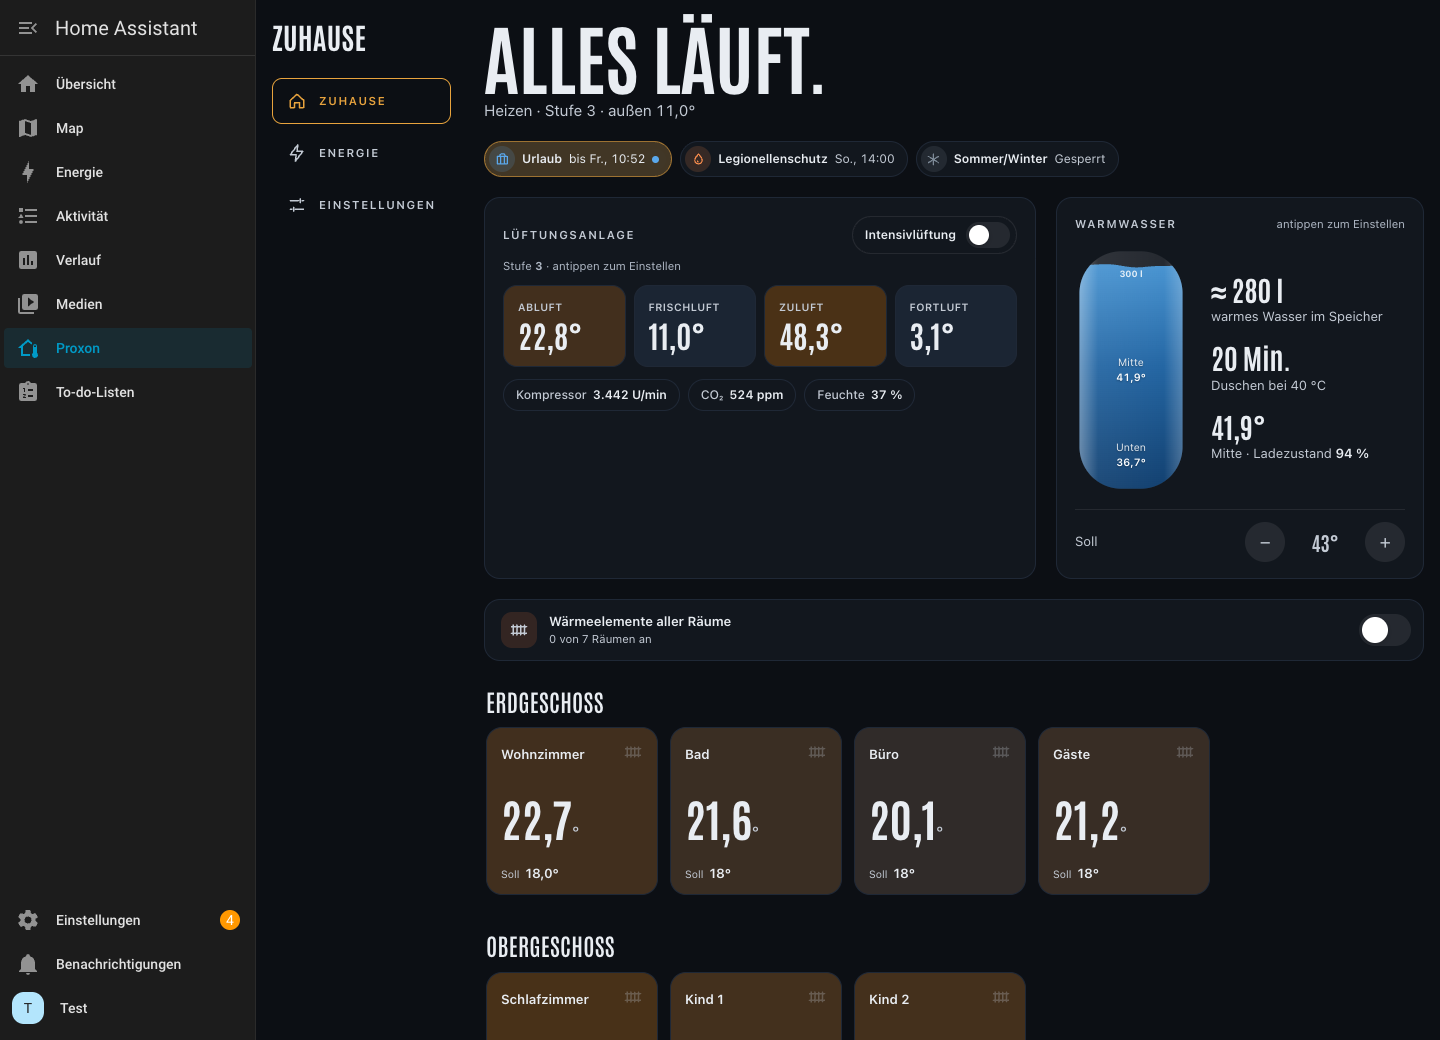
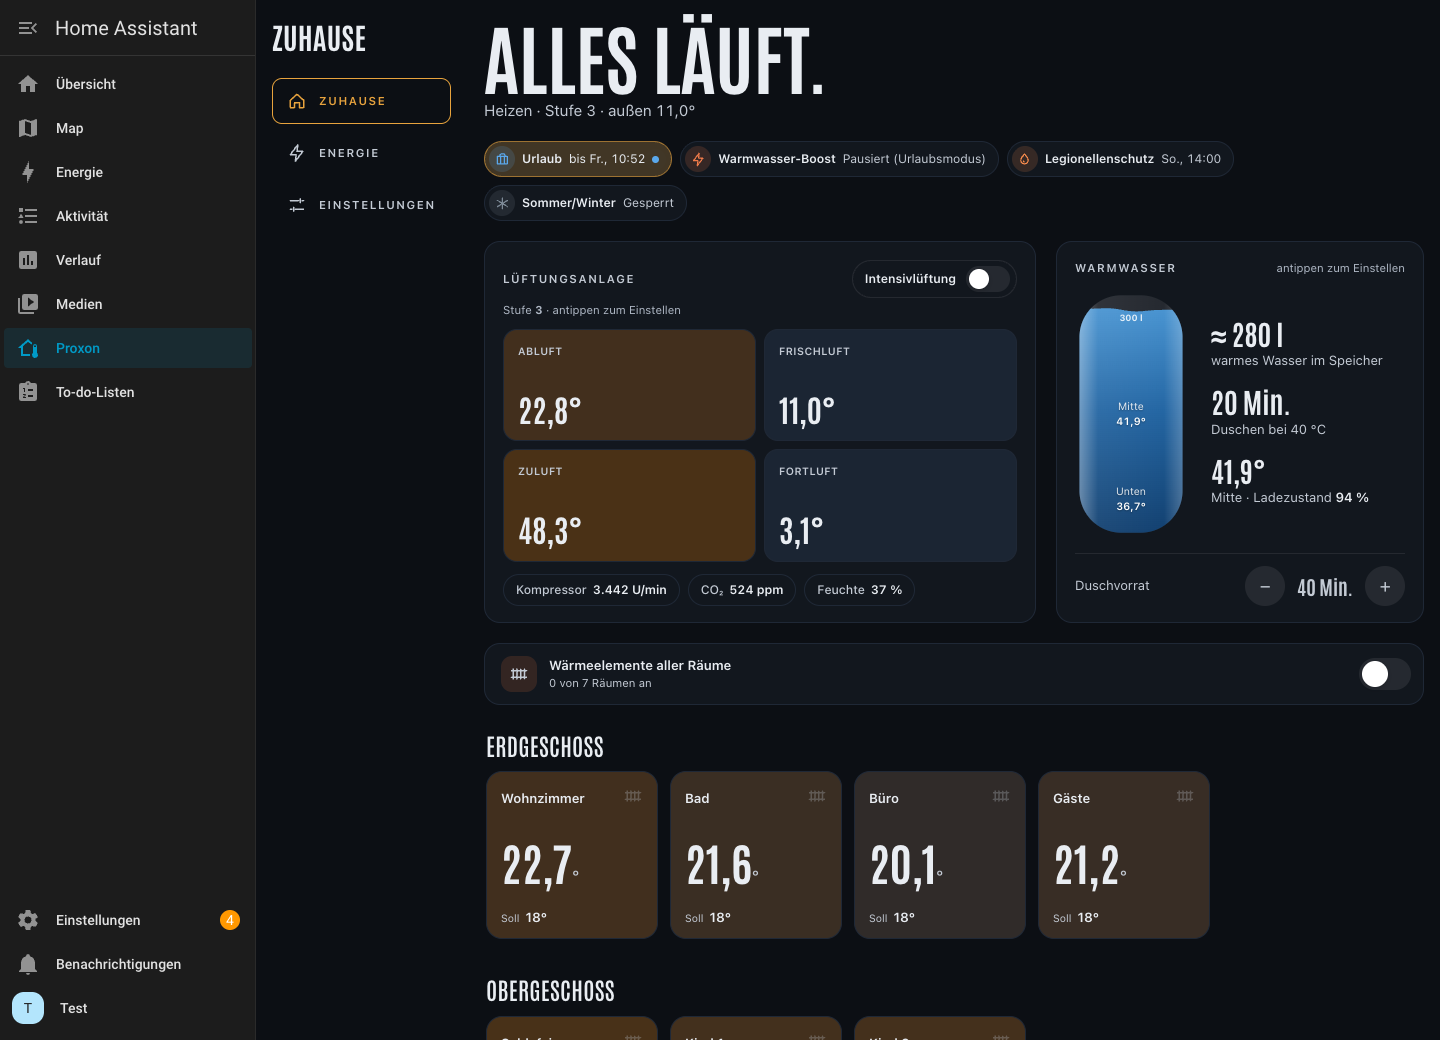
Tile wall fills the unit card; room targets without ",0"; CSV with the period before; larger picture on phones; clock notice
The clock notice names only the control panel: the Proxon app can't set the
clock either (forum feedback), and the official register list allows writing it
only with service access.

diff --git a/custom_components/proxon_control/frontend/proxon-panel.js b/custom_components/proxon_control/frontend/proxon-panel.js
@@ -30,7 +30,7 @@ const TEXT = {
     holidayOrder: "Die Rückkehr liegt vor der Abreise. Bitte die Daten prüfen.", home: "Zuhause", energy: "Energie", settings: "Einstellungen", status: "Status",
     e: { usage: "Verbrauch", today: "Heute", week: "Diese Woche", runtime: "Laufzeit heute", per: { week: "Woche", month: "Monat", year: "Jahr" },
       earlier: "Früher", later: "Später", cmp: "Mit dem Zeitraum davor vergleichen", vs: "{v} gegenüber {p}", prevName: { week: "Vorwoche", month: "Vormonat", year: "Vorjahr" },
-      table: "Werte als Tabelle", tSum: "Summe", tAvgDay: "Ø Tag", tAvgMonth: "Ø Monat", tMin: "Min.", tMax: "Max.", tTotal: "Gesamt", csv: "Als CSV herunterladen", csvDate: "Datum", csvMonth: "Monat", csvTotal: "Summe", failed: "Die Statistik von Home Assistant ist gerade nicht erreichbar. Gleich noch einmal versuchen.", cost: "Kosten", running: "Bisher", expected: "Voraussichtlich", fc: "{p} (Hochrechnung)",
+      table: "Werte als Tabelle", tSum: "Summe", tAvgDay: "Ø Tag", tAvgMonth: "Ø Monat", tMin: "Min.", tMax: "Max.", tTotal: "Gesamt", csv: "Als CSV herunterladen", csvDate: "Datum", csvMonth: "Monat", csvTotal: "Summe", csvPrev: { week: "Vorwoche", month: "Vormonat", year: "Vorjahr" }, failed: "Die Statistik von Home Assistant ist gerade nicht erreichbar. Gleich noch einmal versuchen.", cost: "Kosten", running: "Bisher", expected: "Voraussichtlich", fc: "{p} (Hochrechnung)",
       avgMonth: "Im Schnitt pro Monat", ofWater: "davon Warmwasser {v}",
       noPrice: "Für die Kosten unter Einstellungen → Geräte & Dienste → Proxon Control → Konfigurieren einen Strompreis eintragen (fest oder als Sensor).", none: "Für diesen Zeitraum gibt es noch keine Werte. Home Assistant speichert sie erst, seit es die Energie-Zähler gibt.", yesterday: "gestern {v}", forecast: "Hochrechnung {v}",
       comp: "Kompressor", vent: "Lüftung & Elektronik", water: "Warmwasser (geschätzt)", pump: "Warmwasser-Wärmepumpe", heater: "Heizstab",
@@ -102,7 +102,7 @@ const TEXT = {
     holidayOrder: "The return is before the departure. Please check the dates.", home: "Home", energy: "Energy", settings: "Settings", status: "Status",
     e: { usage: "Consumption", today: "Today", week: "This week", runtime: "Running time today", per: { week: "Week", month: "Month", year: "Year" },
       earlier: "Earlier", later: "Later", cmp: "Compare with the period before", vs: "{v} compared with {p}", prevName: { week: "the week before", month: "the month before", year: "the year before" },
-      table: "Values as a table", tSum: "Total", tAvgDay: "Ø day", tAvgMonth: "Ø month", tMin: "Min", tMax: "Max", tTotal: "Total", csv: "Download as CSV", csvDate: "Date", csvMonth: "Month", csvTotal: "Total", failed: "Home Assistant's statistics can't be reached right now. Try again in a moment.", cost: "Cost", running: "So far", expected: "Expected", fc: "{p} (forecast)",
+      table: "Values as a table", tSum: "Total", tAvgDay: "Ø day", tAvgMonth: "Ø month", tMin: "Min", tMax: "Max", tTotal: "Total", csv: "Download as CSV", csvDate: "Date", csvMonth: "Month", csvTotal: "Total", csvPrev: { week: "Week before", month: "Month before", year: "Year before" }, failed: "Home Assistant's statistics can't be reached right now. Try again in a moment.", cost: "Cost", running: "So far", expected: "Expected", fc: "{p} (forecast)",
       avgMonth: "On average per month", ofWater: "of which hot water {v}",
       noPrice: "For the cost, enter an electricity price under Settings → Devices & services → Proxon Control → Configure (fixed or as a sensor).", none: "There are no values for this period yet. Home Assistant keeps them only since the energy counters exist.", yesterday: "yesterday {v}", forecast: "Forecast {v}",
       comp: "Compressor", vent: "Ventilation & electronics", water: "Hot water (estimated)", pump: "Hot-water heat pump", heater: "Immersion heater",
@@ -380,6 +380,7 @@ button { font: inherit; color: inherit; }
   .toast { bottom: calc(92px + env(safe-area-inset-bottom, 0px)) !important; }
   /* the unit's picture shrinks with the screen: its small labels go, the four air temperatures stand large below it */
   svg.diagram .t-val, svg.diagram .t-name, svg.diagram .t-small, svg.diagram .zone { display: none; }
+  svg.diagram { width: calc(100% + 16px); margin: 2px -8px 0; }
   :host .unit-temps { display: grid; }
 }
 .unit-temps { display: none; grid-template-columns: repeat(2, minmax(0, 1fr)); gap: 8px; margin-top: 10px; }
@@ -679,6 +680,12 @@ svg.diagram { display: block; width: 100%; max-width: 760px; margin: 6px auto 0;
 @media (max-width: 600px) { :host([tiles]) .unit-temps { grid-template-columns: repeat(2, minmax(0, 1fr)); } }
 :host([tiles]) .unit-temps div { background: var(--rt, var(--line)); border: 1px solid var(--tile-line); padding: 14px; }
 :host([tiles]) .unit-temps b { font-size: 2.2rem; font-weight: 700; }
+@media (min-width: 601px) {
+  :host([tiles]) .top > .card:first-child, :host([tiles]) .unit-tap { display: flex; flex-direction: column; }
+  :host([tiles]) .unit-tap { flex: 1; }
+  :host([tiles]) .unit-temps { flex: 1; grid-template-columns: repeat(2, minmax(0, 1fr)); grid-auto-rows: minmax(96px, 1fr); }
+  :host([tiles]) .unit-temps div { display: flex; flex-direction: column; justify-content: space-between; }
+}
 /* rooms: a row to swipe through, each tile in its own temperature; the tapped one grows and shows - and + */
 :host([tiles]) .rooms { display: flex; gap: 12px; overflow-x: auto; scroll-snap-type: x proximity; padding: 2px 2px 10px; scrollbar-width: thin; }
 :host([tiles]) .rooms > .room { flex: 0 0 172px; scroll-snap-align: start; background: var(--rt, var(--surface)) !important; min-height: 168px;
@@ -888,6 +895,11 @@ class ProxonPanel extends HTMLElement {
     this._buildSheet();
     this._buildToast();
     this._buildAir();
+    // on a phone the picture shows only the drawing (its side labels are hidden there): about a fifth larger
+    const diagram = this.shadowRoot.querySelector("svg.diagram"), narrow = matchMedia("(max-width: 600px)");
+    const crop = () => diagram.setAttribute("viewBox", narrow.matches ? "48 28 624 304" : "0 0 720 360");
+    if (this._cropOff) this._cropOff();
+    crop(); narrow.addEventListener("change", crop); this._cropOff = () => narrow.removeEventListener("change", crop);
     this._startAir();
     let tab = "home"; try { tab = sessionStorage.getItem("proxon-tab") || "home"; } catch (_) { /* no storage */ }
     if (tab === "settings" || tab === "energy") this._tab(tab, true);
@@ -1184,7 +1196,7 @@ class ProxonPanel extends HTMLElement {
         <span class="rs-v"><small>${t.target}</small><b class="num tv"></b></span><button class="rs-btn" data-d="1" aria-label="${t.warmer}">+</button></div>`;
     const $ = s => el.querySelector(s), [dn, up] = el.querySelectorAll(".rs-btn");
     let r = null;
-    const digits = () => (r && r.step < 1 ? 1 : 0);
+    const digits = () => (r && r.step < 1 && !Number.isInteger(r.target) ? 1 : 0);  // 18°, but 18,5°
     const ring = x => (x.element === "heating" ? "var(--warm)" : x.temp - x.target < -1 ? "var(--cold)" : "transparent");
     const render = () => {
       r = this._room(n); if (!r) return;
@@ -1340,8 +1352,10 @@ class ProxonPanel extends HTMLElement {
     const e = this.t.e, de = (this._hass.language || "").startsWith("de"), sep = de ? ";" : ",";
     const num = v => (Math.round(v * 1000) / 1000).toFixed(3).replace(".", de ? "," : ".");
     const day = d => d.toISOString().slice(0, L.P.gran === "month" ? 7 : 10);
-    const head = [L.P.gran === "month" ? e.csvMonth : e.csvDate, ...L.parts.map(p => `${e[p.k]} (kWh)`), `${e.csvTotal} (kWh)`];
-    const rows = L.cols.filter(c => !c.future).map(c => [day(c.d), ...c.values.map(num), num(c.total)]);
+    const head = [L.P.gran === "month" ? e.csvMonth : e.csvDate, ...L.parts.map(p => `${e[p.k]} (kWh)`), `${e.csvTotal} (kWh)`,
+      ...(L.prev ? [`${e.csvPrev[L.P.per]} (kWh)`] : [])];
+    const rows = L.cols.map((c, i) => [c, i]).filter(([c]) => !c.future)
+      .map(([c, i]) => [day(c.d), ...c.values.map(num), num(c.total), ...(L.prev ? [i < L.prev.length ? num(L.prev[i]) : ""] : [])]);
     const text = [head, ...rows].map(r => r.map(v => (String(v).includes(sep) || /["\n]/.test(v) ? `"${String(v).replace(/"/g, '""')}"` : v)).join(sep)).join("\r\n") + "\r\n";
     const url = URL.createObjectURL(new Blob(["\ufeff" + text], { type: "text/csv;charset=utf-8" }));
     const a = document.createElement("a");
@@ -1515,7 +1529,7 @@ class ProxonPanel extends HTMLElement {
       pv(sel) !== null ? ` · ${e.prevName[P.per]} ${this._kwh(pv(sel))}` : ""}` : "";
     this.$("e-key").innerHTML = empty ? "" : this._eKey(parts, totals);
     this._eTable(P, parts, cols, totals, empty || failed);
-    this._eLast = { P, parts, cols, empty }; this.$("e-csv").disabled = empty || failed;
+    this._eLast = { P, parts, cols, empty, prev }; this.$("e-csv").disabled = empty || failed;
     this._updateCosts(parts);
     // now
     const power = parts.map(p => this._eSum(p.power));
@@ -1961,7 +1975,7 @@ class ProxonPanel extends HTMLElement {
     }, () => {
       const cur = this._room(n); if (!cur) return;
       this.$("r-sub").textContent = `${t.now} ${this.fmt(cur.temp)}° · ${t.element[cur.element] || ""}`;
-      this.$("rt-out").textContent = `${this.fmt(cur.target, d)} °C`;
+      this.$("rt-out").textContent = `${this.fmt(cur.target, Number.isInteger(cur.target) ? 0 : d)} °C`;
       this.$("rt-dn").disabled = !cur.available || cur.target <= cur.min; this.$("rt-up").disabled = !cur.available || cur.target >= cur.max;
       this.$("s-elem").setAttribute("aria-checked", cur.mode === "heat");
     });

diff --git a/tests/panel_page.py b/tests/panel_page.py
@@ -191,6 +191,13 @@ def check(page, data: dict) -> dict:
     r["energy_cmp"] = js(f"""() => ({{ pressed: {root}.getElementById('e-cmp').getAttribute('aria-pressed'), sub: {root}.getElementById('e-sub').textContent,
       marks: {root}.querySelectorAll('.e-pm').length, head: [...{root}.querySelectorAll('.e-tbl th')].map(x => x.textContent),
       total: [...{root}.querySelectorAll('.e-tbl tr.sum td')].map(x => [...x.childNodes].map(n => n.textContent).join(' ').trim()) }})""")
+    r["energy_csv_cmp"] = js(f"""async () => {{
+      let blob = null; const make = URL.createObjectURL, click = HTMLAnchorElement.prototype.click;
+      URL.createObjectURL = b => {{ blob = b; return 'blob:test'; }}; HTMLAnchorElement.prototype.click = function () {{}};
+      {root}.getElementById('e-csv').click();
+      URL.createObjectURL = make; HTMLAnchorElement.prototype.click = click;
+      return blob ? (await blob.text()).split('\\r\\n').slice(0, 3) : null;
+    }}""")
     js(f"() => {{ {root}.getElementById('e-cmp').click(); }}")
     page.wait_for_timeout(200)
     r["energy_cmp_off"] = js(f"() => [{root}.querySelectorAll('.e-pm').length, {root}.getElementById('e-sub').textContent.includes('Vorwoche')]")
@@ -271,6 +278,10 @@ def check(page, data: dict) -> dict:
               .slice(0, 5).map(e => `${{e.tagName}}.${{e.className}}#${{e.id}}`),  // what sticks out, for the message
           }};
         }}""")
+    # a room's target: a decimal only where there is one; the unit's picture cropped to the drawing on a phone
+    r["targets"] = js(f"() => [...{root}.querySelectorAll('.rooms .tv')].map(x => x.textContent)")
+    r["diagram_box"] = js(f"() => {root}.querySelector('svg.diagram').getAttribute('viewBox')")
+
     # the hot water as a shower supply (switch in the automations): the card's label, value and − / + follow it
     E = data["config"]["entities"]
     if E.get("DuschvorratModus"):

diff --git a/tests/test_panel_page.py b/tests/test_panel_page.py
@@ -91,6 +91,10 @@ async def test_page_in_a_browser(hass: HomeAssistant, device, tmp_path: Path) ->
         soft = r["soft"]
         assert soft["on"] and soft["backdrop"] == "none" and soft["card"] in ("none", "") and soft["overflow"] <= 0, f"{width}: soft {soft}"
         assert r["glass_again"] is False
+        csv = r["energy_csv_cmp"]
+        assert csv[0].endswith(";Summe (kWh);Vorwoche (kWh)") and csv[1].endswith(";10,000;5,000") and csv[2].endswith(";4,000;5,000"), csv
+        assert r["targets"] and not any(x.endswith(",0°") for x in r["targets"]), r["targets"]
+        assert r["diagram_box"] == ("48 28 624 304" if width == "phone" else "0 0 720 360"), r["diagram_box"]
         cmp = r["energy_cmp"]
         assert cmp["pressed"] == "true" and "+40 % gegenüber Vorwoche" in cmp["sub"] and cmp["marks"] == 2, cmp
         assert cmp["head"] == ["", "Summe", "Ø Tag", "Min.", "Max."] and cmp["total"] == ["Gesamt", "14,0", "2,00", "0,00 Mi", "10,0 Mo"], cmp

diff --git a/custom_components/proxon_control/repairs_watch.py b/custom_components/proxon_control/repairs_watch.py
@@ -13,7 +13,7 @@ from .registers import t300_fault_texts
 
 # same limit as the binary sensor "Filter change soon" (30 days)
 FILTER_WARN_HOURS = 30 * 24
-# the unit's clock can only be set at the unit (or in the app); the weekly schedule runs on it
+# the unit's clock can only be set at its control panel (not over the network, not in the app); the weekly schedule runs on it
 CLOCK_WARN_MINUTES = 10
 # a compressor starting this often a day is short-cycling (an inverter heat pump normally runs long and steadily)
 CYCLING_STARTS_PER_DAY = 30

diff --git a/CHANGELOG.md b/CHANGELOG.md
@@ -7,7 +7,9 @@ Was sich in jeder Version geändert hat, die neueste zuerst. Die Release-Hinweis
 
 **Not yet released:** hot water can be set as a shower supply (35–55 minutes, switch under Settings → Automations; the
 integration picks the lowest water target that holds them); the "Energy" tab compares with the period before (a mark per
-column, the difference over finished days) and shows the period as a table (total, average, lowest and highest day).
+column, the difference over finished days, also in the CSV) and shows the period as a table (total, average, lowest and
+highest day); tile wall: the unit's four tiles fill their card; room targets without ",0"; the unit's picture larger on
+phones; the clock notice names only the control panel.
 
 **New in 1.1.0b2 (beta):** security (also released alone as 1.0.1): entity names and options are escaped before they go into the page's markup (HACS
 review); tile wall: a second tap closes an open room, its name opens the details.
@@ -155,6 +157,14 @@ nobody home).
 * **Energie: Vergleich mit dem Zeitraum davor:** Der neue Knopf neben dem CSV-Download zeigt in jeder Säule mit einem Strich,
   wie viel derselbe Tag der Vorwoche (Tag des Vormonats, Monat des Vorjahrs) brauchte, und oben die Veränderung, z. B.
   „+12 % gegenüber Vorwoche“. Gerechnet wird nur über abgeschlossene Tage, damit der angebrochene Tag nicht täuscht.
+* **CSV mit Vergleich:** Ist der Vergleich an, hat die CSV-Datei eine Spalte mit dem Wert des Zeitraums davor.
+* **Kachelwand:** Die vier Luft-Kacheln füllen am Computer ihre Karte neben dem Warmwasser (2 × 2), statt unten eine leere
+  Fläche zu lassen.
+* **Sollwerte einheitlich:** In den Raumkacheln steht „18°“ statt „18,0°“; eine Nachkommastelle nur, wo es eine gibt (18,5°).
+* **Anlagenbild auf dem Handy größer:** Das Bild zeigt dort nur die Zeichnung (die Beschriftungen stehen ohnehin in den Kacheln
+  darunter) und nutzt die Breite der Karte; etwa ein Fünftel größer.
+* **Hinweis zur Uhr:** „Die Uhr der Anlage geht falsch“ nennt nur noch das Bedienpanel – in der Proxon-App lässt sich die Uhr
+  nicht stellen (Rückmeldung aus dem Forum). Laut offizieller Registerliste geht es übers Netz nur mit Service-Berechtigung.
 * **Energie: Werte als Tabelle:** Aufklappbar unter dem Diagramm je Teil und gesamt: Summe, Durchschnitt, niedrigster und
   höchster Tag (Monat) mit Datum.
 

diff --git a/README.md b/README.md
@@ -118,7 +118,8 @@ kein Theme nötig.
 
 ## Bekannte Grenzen
 
-* Die **Uhr der Anlage** lässt sich nicht stellen – die Anlage lehnt das Schreiben übers Netz ab (in der Proxon-App geht es).
+* Die **Uhr der Anlage** lässt sich nicht stellen – die Anlage lehnt das Schreiben übers Netz ab (die offizielle Registerliste
+  erlaubt es nur mit Service-Berechtigung). Gestellt wird sie am Bedienpanel der Anlage.
 * Der Ausweichweg über den **Proxon-Server** braucht Nabtos Bibliothek, die es nur für Linux auf Intel/AMD und Mac mit Apple-Chip gibt
   (Raspberry Pi: nur Heimnetz).
 * **Eine Anlage pro Home Assistant.** Eine zweite lässt sich nicht hinzufügen; mehrere Anlagen kommen frühestens in einem
